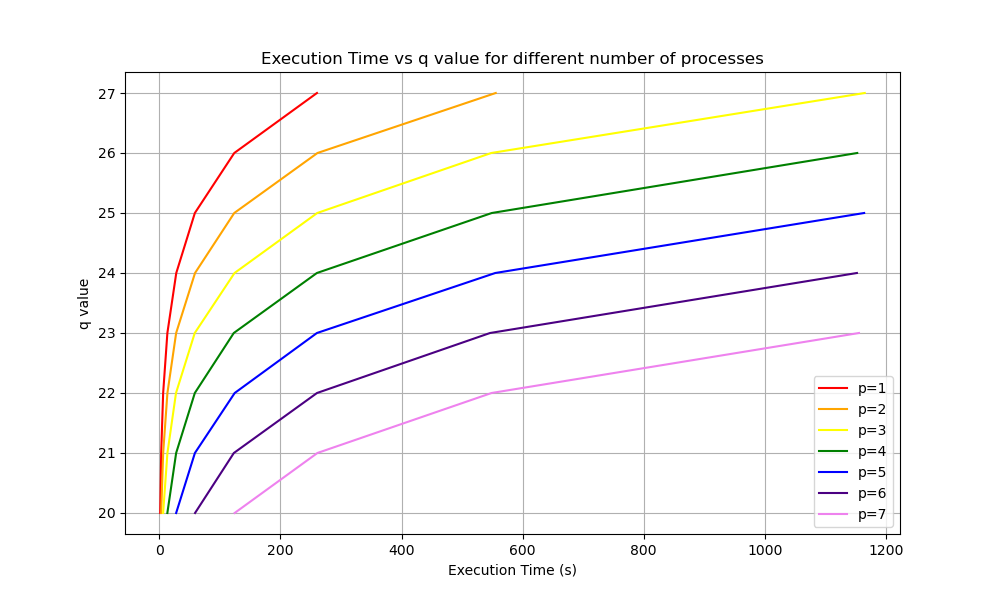
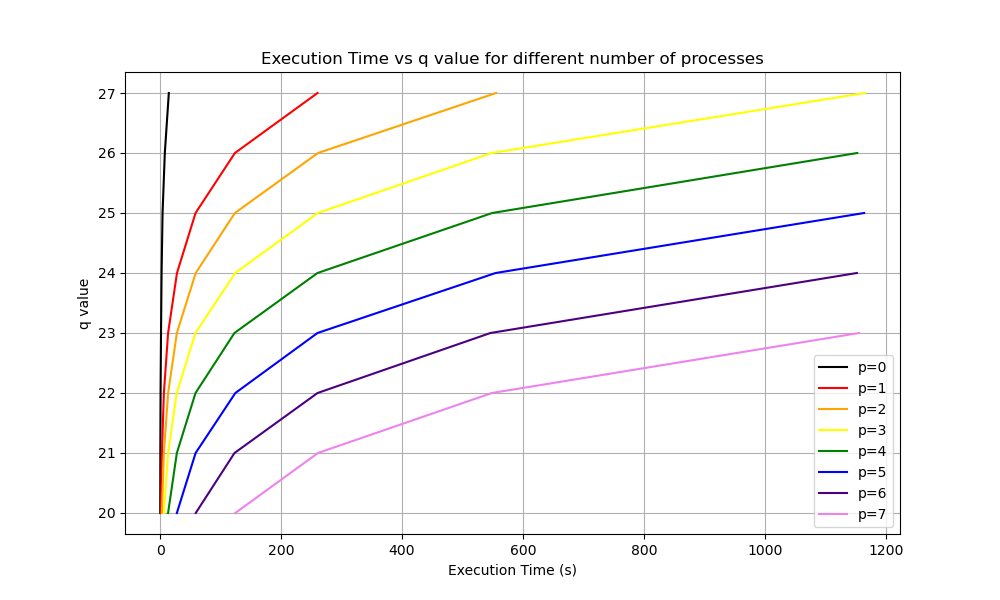
Comparison with qsort

diff --git a/src/test.c b/src/test.c
@@ -30,7 +30,7 @@ void results(Vector* sorted, int p, double time) {
   // printVec(sorted, "Sorted data:\n");
   sortCheck(sorted, p) ? printf("Partial Check: Array is Sorted :)\n") : printf("Partial Check: Array is NOT Sorted :(\n");
   fullCheck(sorted)    ? printf("Full    Check: Array is Sorted :)\n") : printf("Full    Check: Array is NOT Sorted :(\n");
-  printf("\nExecution Time (s): %f\n", time);
+  printf("\nExecution Time (s): %.2f\n", time);
 
   delVec(sorted);
 }

diff --git a/test/plots.py b/test/plots.py
@@ -29,7 +29,7 @@ with open(FILE_PATH, 'r') as file:
             data[curr_p]['t'].append(curr_t)
             data[curr_p]['nps'].append(curr_nps)
 
-rainbow = ['red', 'orange', 'yellow', 'green', 'blue', 'indigo', 'violet']
+rainbow = ['black', 'red', 'orange', 'yellow', 'green', 'blue', 'indigo', 'violet']
 
 # performance plot
 plt.figure(figsize=(10, 6))

diff --git a/src/utility.c b/src/utility.c
@@ -13,7 +13,7 @@ void checkArgs(int argc, char** argv, int* q, int* p) {
 
   *q = atoi(argv[1]);
   *p = atoi(argv[2]);
-  if (*q <= 0 || *p <= 0) {
+  if (*q < 0 || *p < 0) {
     fprintf(stderr, "Error: q and p must be positive!\n");
     exit(EXIT_FAILURE);
   }
